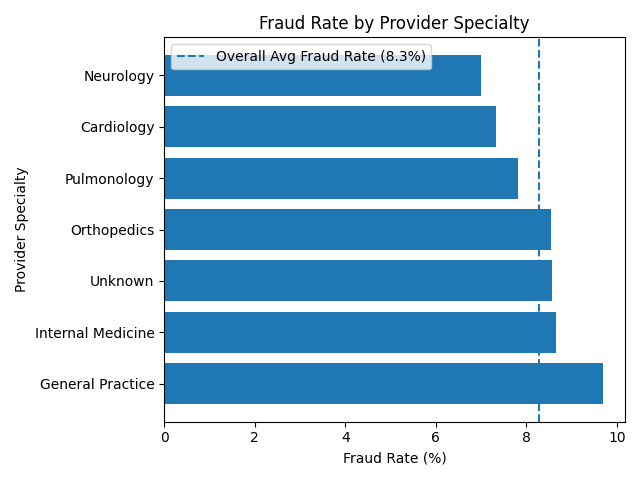
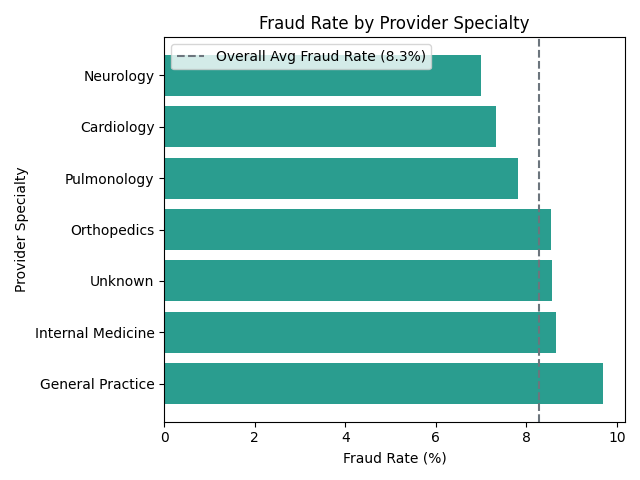
Modify viz

diff --git a/healthcare-fraud-analysis.py b/healthcare-fraud-analysis.py
@@ -139,14 +139,16 @@ fraud_by_visit_type
 plt.figure()
 
 plt.barh(
-    fraud_by_provider_specialty["Provider_Specialty"]
-    ,fraud_by_provider_specialty["Fraud_Rate"] * 100
+    fraud_by_provider_specialty["Provider_Specialty"],
+    fraud_by_provider_specialty["Fraud_Rate"] * 100,
+    color="#2A9D8F"
 )
 
 plt.axvline(
-    x = fraud_rate * 100
-    ,linestyle="--"
-    ,label=f"Overall Avg Fraud Rate ({fraud_rate:.1%})"
+    x = fraud_rate * 100,
+    linestyle="--",
+    label=f"Overall Avg Fraud Rate ({fraud_rate:.1%})",
+    color="#6C757D"
 )
 
 plt.legend()
@@ -165,25 +167,27 @@ plt.savefig("charts/fraud_rate_by_specialty.png")
 plt.figure()
 
 plt.barh(
-    fraud_by_provider_specialty["Insurance_Type"]
-    ,fraud_by_provider_specialty["Fraud_Rate"] * 100
+    fraud_by_insurance_type["Insurance_Type"],
+    fraud_by_insurance_type["Fraud_Rate"] * 100,
+    color="#2A9D8F"
 )
 
 plt.axvline(
-    x = fraud_rate * 100
-    ,linestyle="--"
-    ,label=f"Overall Avg Fraud Rate ({fraud_rate:.1%})"
+    x=fraud_rate * 100,
+    linestyle="--",
+    label=f"Overall Avg Fraud Rate ({fraud_rate:.1%})",
+    color="#6C757D"
 )
+
+plt.legend()
 
 plt.legend()
 
 plt.title("Fraud Rate by Insurance Type")
 
 plt.xlabel("Fraud Rate (%)")
-plt.ylabel("Insurance_Type")
+plt.ylabel("Insurance Type")
 
 plt.tight_layout()
 
 plt.savefig("charts/fraud_rate_by_insurance_type.png")
-
-# %%